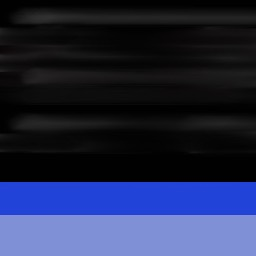
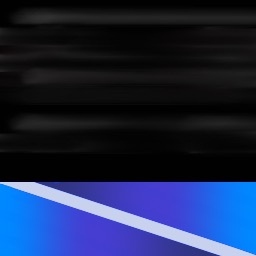
added disk textures

Changed region(s): [[0.0, 0.6875, 1.0, 1.0]]

diff --git a/main-scene.js b/main-scene.js
@@ -555,10 +555,10 @@ window.Record_Player_Simulator = window.classes.Record_Player_Simulator =
             
             // Decide whether to draw original disk or the game music disk.
             if (!this.broken) {
-                this.shapes.disk.draw(graphics_state, this.tank_transform.times(disk_transform), this.materials.record_tex2);
+                this.shapes.disk.draw(graphics_state, this.tank_transform.times(disk_transform), this.materials.record_tex);
             }
             else {
-                this.shapes.disk.draw(graphics_state, this.tank_transform.times(game_disk_transform), this.materials.record_tex);
+                this.shapes.disk.draw(graphics_state, this.tank_transform.times(game_disk_transform), this.materials.record_tex2);
             }
 
             this.aim_transform = this.tank_transform.times(needle_rotation).times(Mat4.translation(Vec.of(0, 1, 10)));
